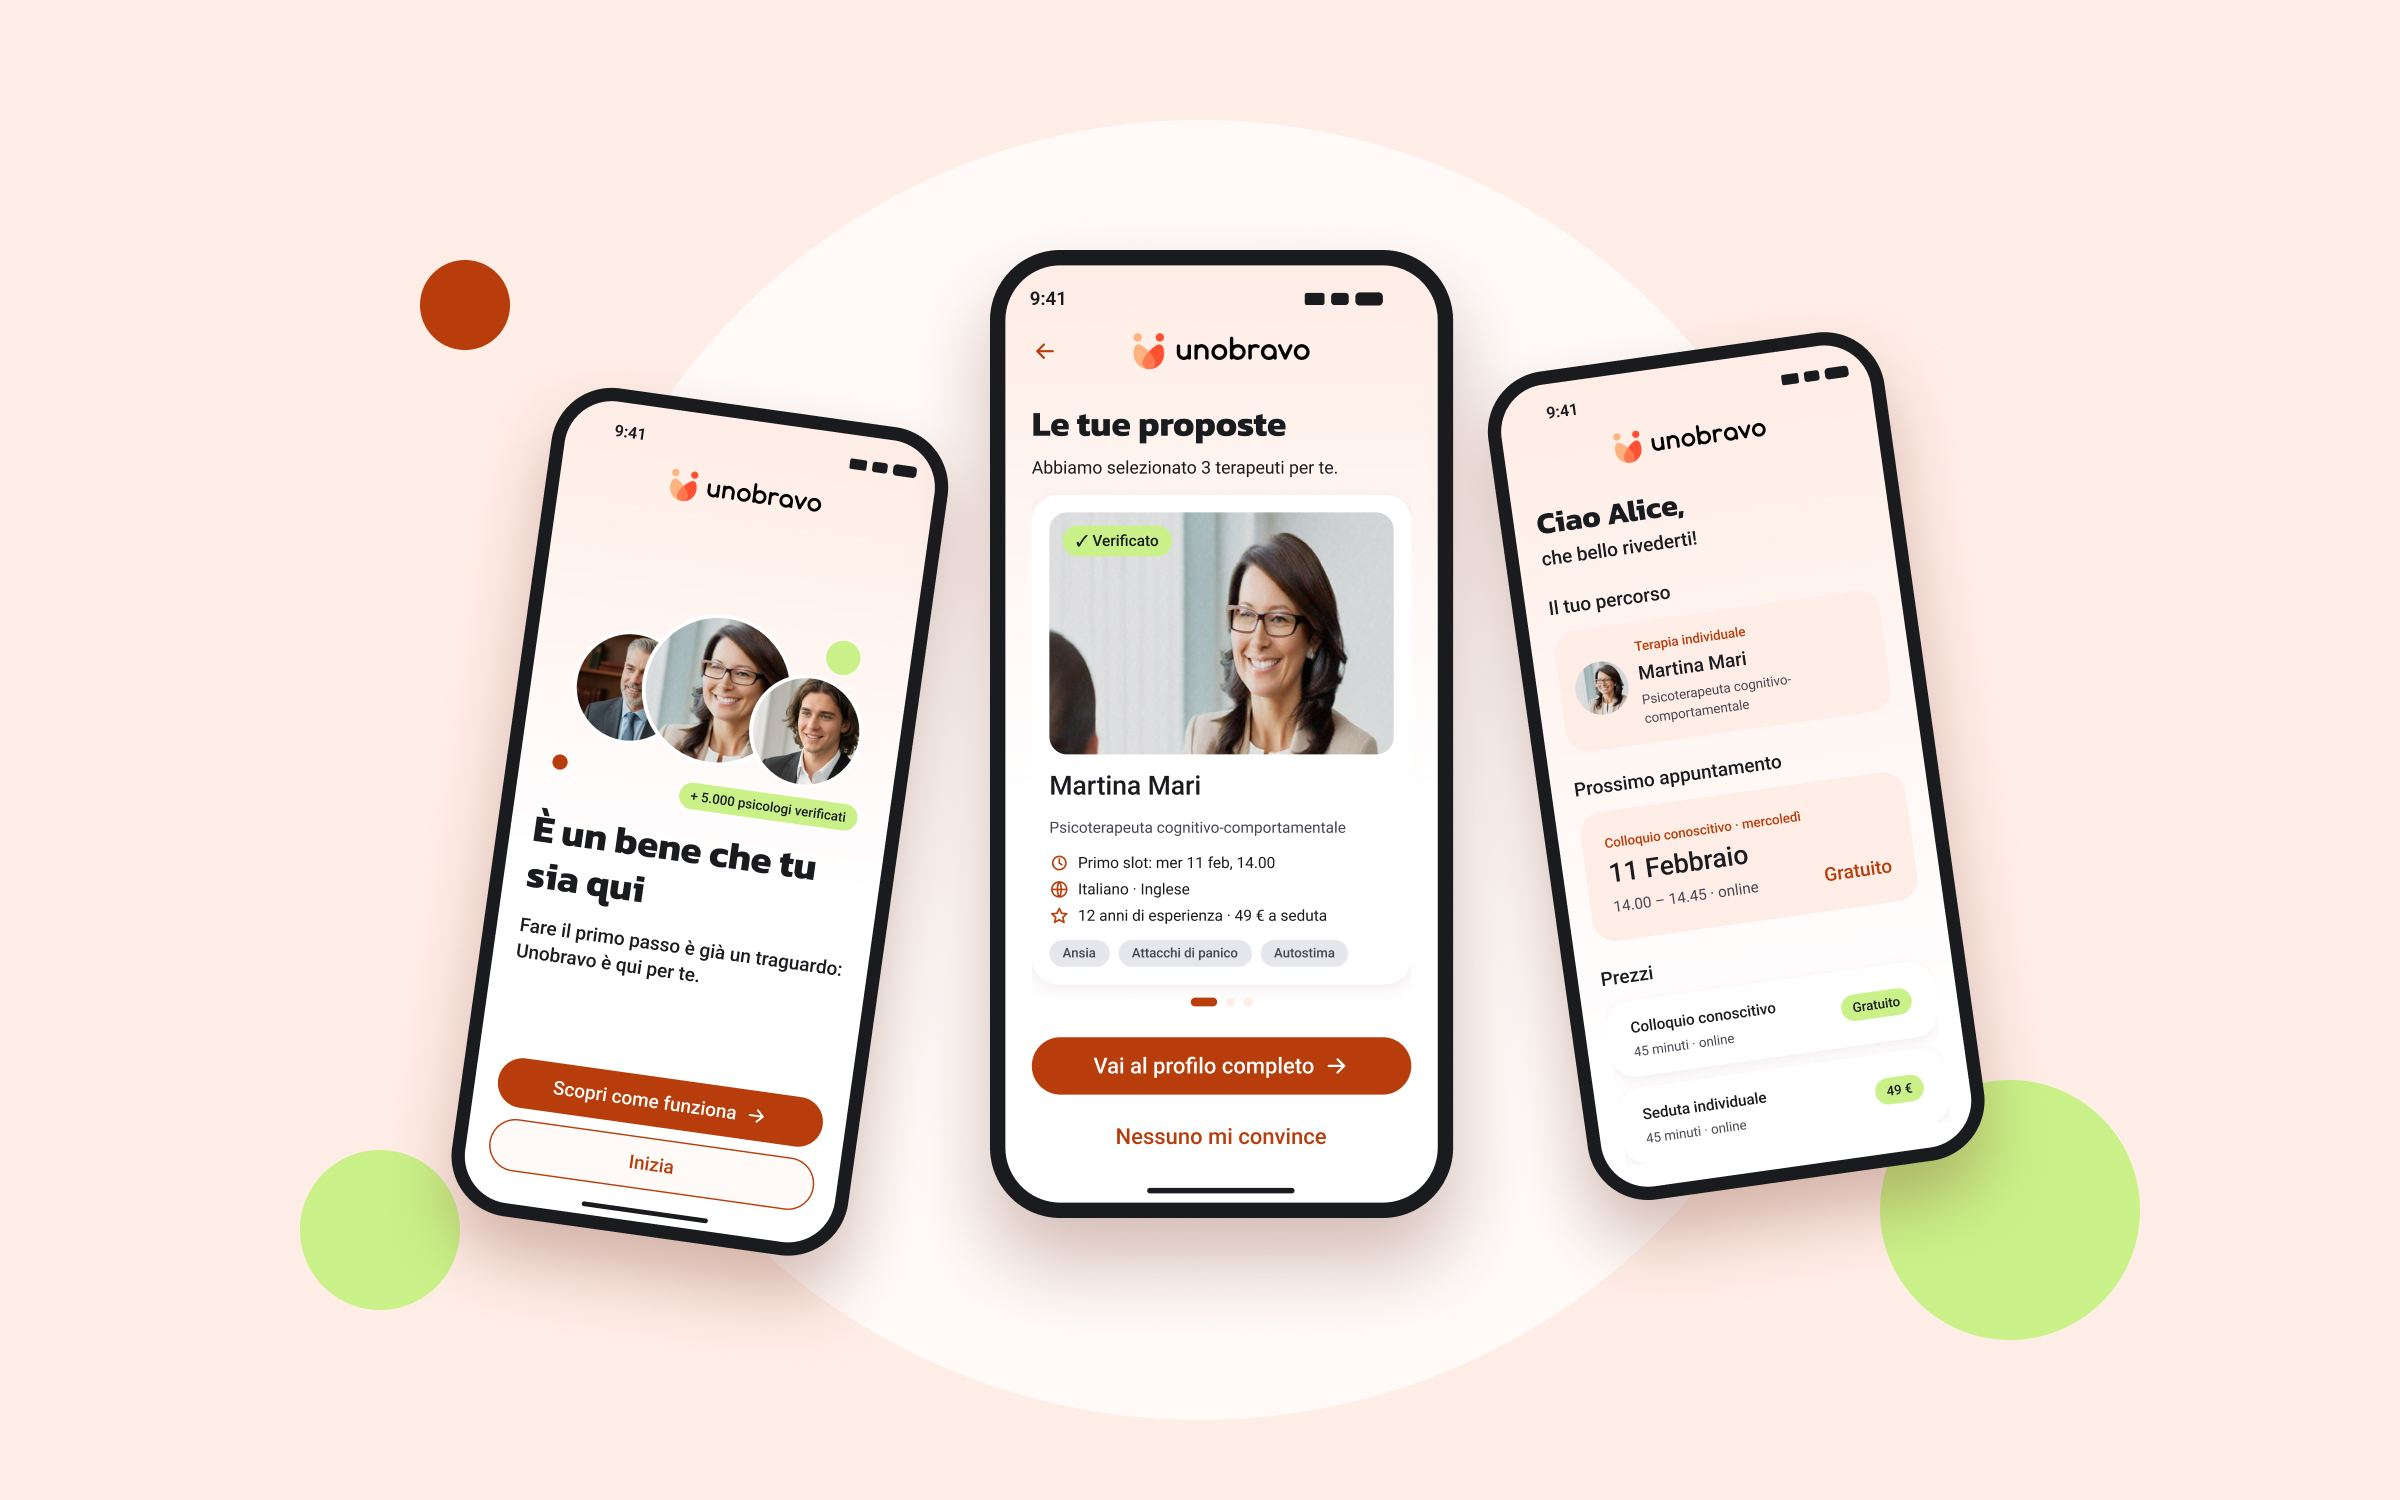
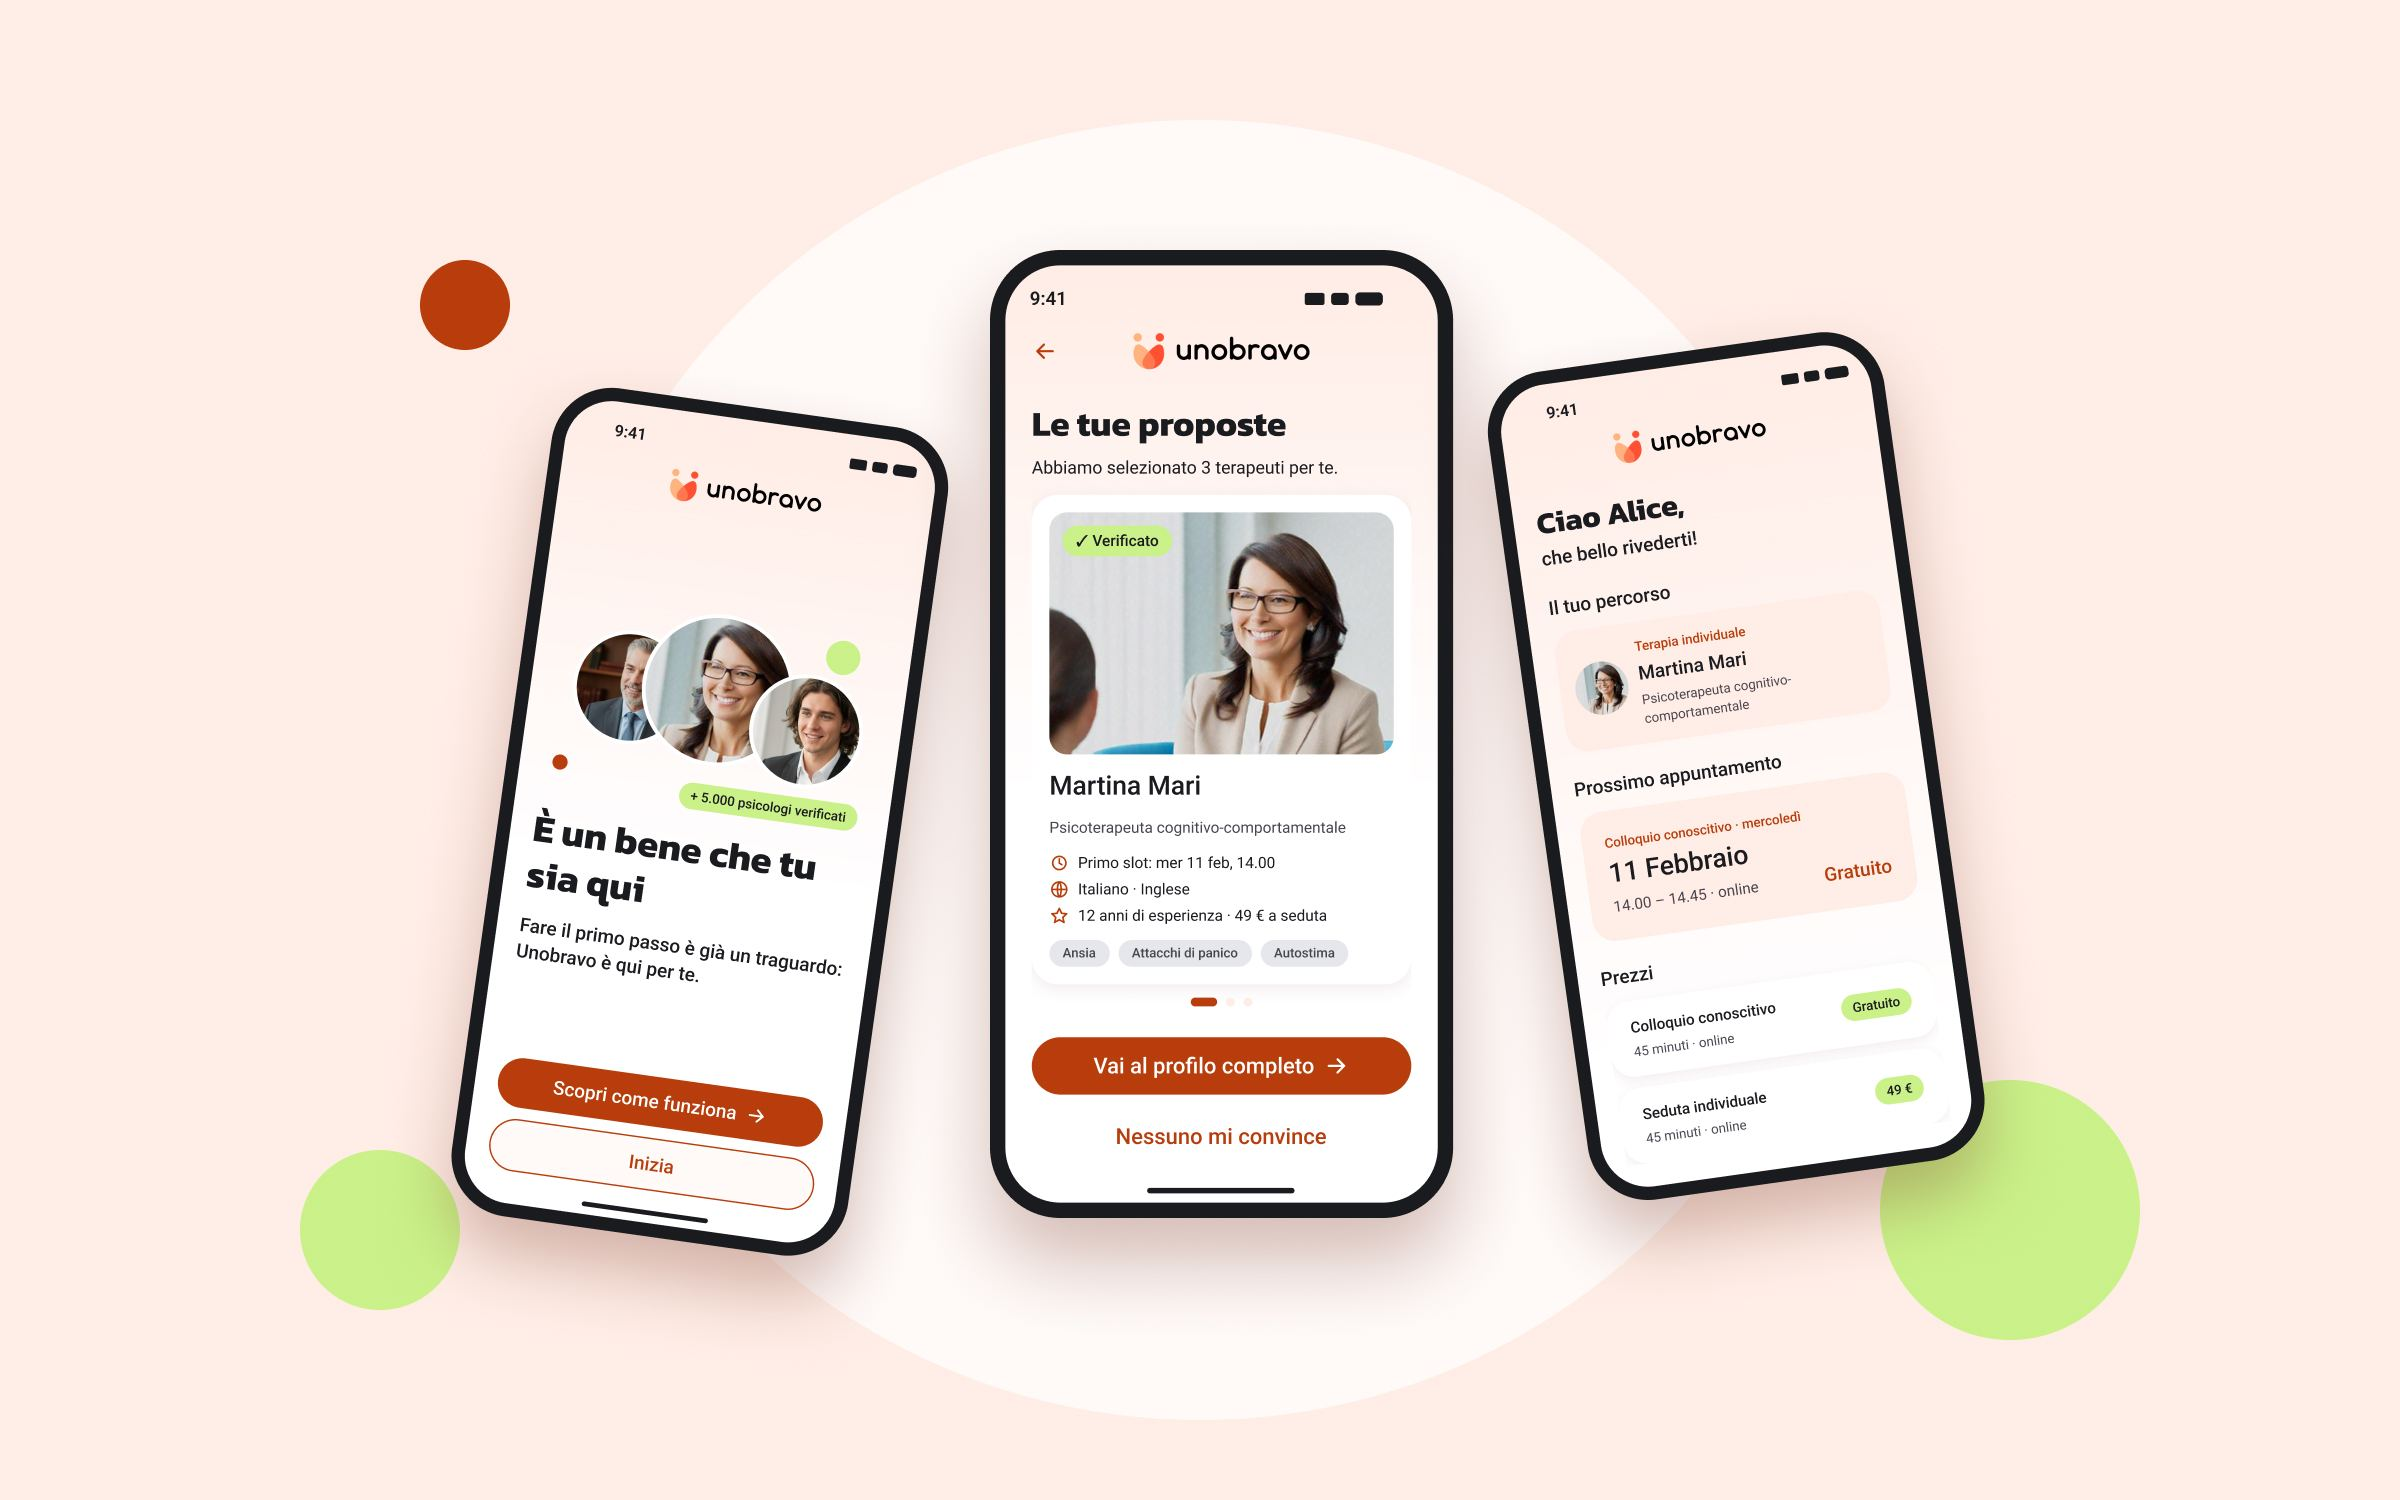
Full-colour images, fresh site screenshots, fixed Unobravo hero
- Drop the grayscale-until-hover effect: all images render in colour
- The Stolen Archive: new tile, hero and gallery from the live site
- Teigetje & Woelrat: collection, archived pieces and history pages
  captured from the current build
- Unobravo hero, home tile and booking board re-exported with the
  therapist photo at its correct aspect ratio

Changed region(s): [[0.4375, 0.368, 0.5938, 0.5213]]

diff --git a/styles/globals.css b/styles/globals.css
@@ -142,15 +142,6 @@ a {
   animation: fu-blink 1.2s steps(1) infinite;
 }
 
-.fu-card img {
-  filter: grayscale(1);
-  transition: filter 0.4s;
-}
-.fu-card:hover img,
-.fu-card:focus-visible img {
-  filter: none;
-}
-
 @media (prefers-reduced-motion: reduce) {
   html { scroll-behavior: auto; }
   .fu-blink { animation: none; }
